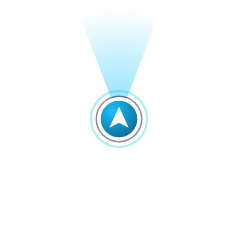
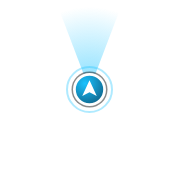
Own dot 1.5x the 2.0 size instead of 2x (Chris: a little too big)
Claude-Session: https://claude.ai/code/session_018oU3wjAxDHu4M3bgiu6vw7

Changed region(s): [[0.3631, 0.3631, 0.6425, 0.6425], [0.4469, 0.4469, 0.5307, 0.5307]]

diff --git a/app/src/components/own-puck.tsx b/app/src/components/own-puck.tsx
@@ -9,7 +9,7 @@ import { useGlide } from './use-glide';
 import { t } from '@/lib/i18n';
 
 /** Your own dot's disc size (points): twice the 2.1 test size, so it reads at a glance on a mount (2026-11-05). */
-export const OWN_PUCK_D = 44;
+export const OWN_PUCK_D = 33;
 
 export type OwnPuckFix = { lat: number; lng: number; course: number | null; speed: number | null; lastCourse?: number | null };
 

diff --git a/docs/feature-parity.md b/docs/feature-parity.md
@@ -145,7 +145,7 @@ web build and the Android emulator.
 | F112 | Rider dot with the arrow built in, follow camera edge rule and Zoom In at Intersections (2.1): every live rider is a glossy disc with a white rim and a white chevron pointing their heading (held for 10 min after they stop, `core/heading` heldHeading); leader biggest in blue, tail gunner next in violet (`RideColors.sweep`), others graphite; your own dot cyan with a beam, arrow from GPS course while moving, the phone's compass when stopped (`lib/compass.ts`), last course on the website. Follow Me: the dot rides through the middle 60% of the open map; near an edge the map zooms out one step once, then pans with the dot a little behind the middle (`core/follow-camera` followMove, leadInset); Center on Me / resume allows the zoom out again. Zoom In at Intersections: junctions found in the road/track/path lines Mapbox has drawn near the rider (`core/intersections`, queryRenderedFeatures; T junctions and crossings, 25° minimum angle), zoom to 17 about 9 s before the junction, back to the old zoom once 35 m past it or after 60 s; You > Zoom In at Intersections (`map.intersectionZoom.v1`, on by default, synced) | 🟡 | 🟡 | 🟡 | 🟡 | 🟡 | ➖ | ✅ follow-me, ride-mode, navigation-mode, leader-sweep-and-tail-gunner, troubleshooting, sync-across-devices | 2.1 (next build) | Added 2026-11-04 (Chris: "Only do one zoom out, then if it is approaching the edge of the screen again, move the screen", "When the dot is approaching in intersection, zoom in ... Once clear ... zoom back out ... a setting ... they can turn off", "always make sure the dot has the arrow on it ... Make the dot look cooler", "leader and tail gunner are different colors"). Mock approved by Chris (Chevron Puck, /mnt/project-files/onmylead/rider-dot/rider-dot-mock.html). Mapbox maps: `components/use-follow-camera.ts` (Ride Mode `group-mapbox-map`, Map Mode `nav-mapbox-map`), own dot `components/own-puck.tsx` + `rider-puck.tsx` (react-native-svg; `puckSvg` string for Leaflet), other riders `rider-pin.tsx`. Fallback Apple/Google maps (`fallback-follow.ts`) and the Leaflet website get the edge rule and the new dots, no intersection zoom (no drawn road lines to query; Exceptions table). Unit tests follow-camera, intersections, heading. Web-rendered at phone and tablet sizes with a fake backend (no Mapbox token in the cloud, so the Leaflet fallback was shot). Needs a real-drive device check on iPhone and Android (junction detection on real trails, compass arrow, zoom timing) with the next build; no backend change. |
 | F113 | Comment likes and replies, friends' post photos on the Home Feed (2.1): Like on every comment and reply (free); Reply under any comment (Pro, like commenting), one level deep, a reply to a reply joins the same conversation with @name; replies hidden or deleted with their comment; Home Feed posts show the photo as a thumbnail | 🟡 | 🟡 | 🟡 | 🟡 | 🟡 | 🟡 | ✅ social, home-screen, notification-settings, free-vs-pro | 2.1 (pending Chris: 2.1 or next) | Added 2026-11-04 (Chris: "Allow me to like and reply to comments. Show activity like photos and posts and stuff on all social feeds from friends"). Migration 20261104220000_comment_likes_replies.sql (additive: `feed_comments.parent_id` / `reply_to_id`, `feed_comment_likes`, `feed_item_thread`, `set_comment_like`, `add_feed_reply`; `push_batch_feed`, `delete_feed_comment`, `admin_rider_social` replaced with the same signatures). Push and inbox types stay feed_like / feed_comment, so no Edge Function deploy; 2.0 builds keep calling `feed_item_comments` and show replies as plain comments. A 2.1 build on a server without the migration hides Like and Reply on comments (`threadNotSwitchedOn`). Database tests `supabase/tests/comment_replies_test.sql` (R1-R9), unit tests in `core/__tests__/social.test.ts`. Admin: Users > rider shows Reply on / likes on each comment; hide and report work as before. Friends' activity reading: Home Feed, Social Activity and profiles already carry friends' posts, rides, badges and trails; the Home Feed now shows post photos. Web-rendered at phone and tablet sizes; device check (reply keyboard, comment like push) due with the next build. Backend/Admin 🟡 until the migration runs from the Mac. 2026-11-05 release test (migration 20261105040000_comment_thread_fixes.sql, DB tested in comment_replies_test.sql R7): replies under a hidden or blocked top comment are left out of feed_item_comments (2.0 builds) and the Feed's counts and preview; hiding clears reply notifications; one comment-like push per 15 minutes per comment; Free riders see a failed like's reason. Backend 🟡 until the migration runs from the Mac. 2.1 release test pass 1: "replying to" never names the writer of a hidden reply or a blocked rider (migration 20261105050000, comment_replies_test R7b). Pass 3: reply pushes go only to riders the reply is shown to (migration 20261105060000, comment_replies_test R7c) |
 | F114 | Leader Trackline (2.1): in Ride Mode a line in the leader dot's blue (`rider-puck` puckInk, so Color Blind Mode follows) follows behind the leader on every rider's map and the leader's own, on any ride (route or Freeride); when the leader comes back within 15 m of their own line at least 120 m further back (a crossing, a loop back to the start, doubling back on an out-and-back), everything before that point is drawn faded, thinner and dashed under the fresh solid line (`core/leader-trackline` lastCrossing: segment test on a grid, so widely spaced spots still catch a crossing; 80 m hysteresis so GPS drift on the way back stays one pass; breaks over 400 m are gaps, never straight lines). Leader / organizer switch in the layers panel, Leader Trackline > On for Everyone / Off for Everyone, for the whole ride (`rides.leader_trackline`, `set_leader_trackline`) | 🟡 | 🟡 | 🟡 | 🟡 | 🟡 | ➖ | ✅ leader-trackline, ride-mode, leader-sweep-and-tail-gunner, map-layers, privacy | 2.1 (next build) | Added 2026-11-05 (Chris: "place a trackline behind the leader in the same high vis color as the leader dot. Give the leader the option to disable the trackline ... If the leader crosses over that trackline ... change the color of the old or something so that people can see the fresh trackline"). Each phone draws the line from the leader trail it already keeps from the leader's live spots (`hooks/use-leader-trail`, on the phone only, never uploaded; Freeride's rider line uses the same trail), so no track data is newly exposed. Migration 20261104210000_leader_trackline.sql (additive: `rides.leader_trackline boolean default true`, `set_leader_trackline` for `can_share_waypoint` riders: leader, or organizer when nobody leads, or co-organizers); phones pick the switch up from the rides realtime update. Drawn on Mapbox (`group-mapbox-map` lines, native and website) and the flat Apple / Google maps (`components/leader-trackline.tsx` Polylines); the website's route sketch (no Mapbox) shows no line (E16). Unit tests `core/__tests__/leader-trackline.test.ts` (straight ride, hairpin, right-angle crossing, out-and-back with GPS drift, detour, second lap, two crossings, 150 m spot spacing, gaps, 5,000 spots), DB tests `supabase/tests/leader_trackline_test.sql` (T1 to T5). Backend 🟡 until the migration runs from the Mac (until then the line shows and the switch says it isn't switched on yet). Device check with the next build: line on Apple and Google maps, layer order on native Mapbox, real crossing on a trail. 2026-11-05 release test (PR #239): stop wander no longer counts as a crossing (TRACKLINE_STILL_M), breaks only past 2 km so battery-saver and backup-poll rides still draw, the trail is kept while the line is off, it stays with the leader it follows, and the website map updates lines in place (unit tested; web Ride Mode re-check owed). |
-| F115 | Map Settings sheet and smooth riding map (2.1): the Layers button (glass circle, blue dot when the map isn't the standard set) opens Map Settings, a sheet from the bottom on phones and docked on the right on tablets in landscape (centered on tablets in portrait), light dim so the map shows each change: Map Style tiles (Satellite, Topo, 3D Terrain as pictures), On the Map switches (Streets and Roads, Off-Road Trails, Hiking Trails, Land Boundaries; `core/map-features` QUICK_LAYERS), Every Map Feature (Fine-Tune), Leader Trackline, Map Buttons on Ride Mode and Map Mode (Follow Me, Zoom In at Intersections on Mapbox, Tilt Meter on the apps, Music Button where available; same synced switches as the You tab), ride map download, Offline Maps. Lag fix: your own dot is Mapbox's native location puck again (the Chevron Puck as images, `assets/images/puck`, made by `app/scripts/puck/make-images.mjs`), course while moving and compass when stopped, instead of a React marker animated ~30 times a second; the intersection lookup asks Mapbox for road and trail lines only (`JUNCTION_QUERY_FILTER`) at most every 2 s; 3D exaggeration redraws in tenths | 🟡 | 🟡 | 🟡 | 🟡 | ➖ | ➖ | ✅ map-layers, 3d-terrain, ride-mode, leader-trackline, follow-me, music-controls, tilt-and-crash-alert | 2.1 (next build) | Added 2026-11-05 (Chris: "the map is glitchy and slow to update when you move", "some kind of layers button on the map screen to configure setting for the map ... toggles to turn features on and off like street/roads, hiking trails, Offroad trails, etc. ... the tilt controls and music button", "Should be elegant, modern and cool"). Unit tests `core/__tests__/map-features.test.ts` (quick switches), all 11 languages. Website (Leaflet fallback, no Mapbox token in the cloud) rendered at 393x852, 820x1180 and 1180x820 (project files onmylead/map-settings/). Device check owed with the next build: smoothness while driving, native dot and arrow (course vs compass), sheet on iPhone, iPad and Android. Web keeps its own dot (mapbox-gl markers move in step there). No backend change. 2026-11-05 follow-up (Chris: dot "twice as big"; "zoom out ... one time", then move the screen, zoom in at intersections, "customizable ... inside the map settings"; "Call it map settings"): own dot OWN_PUCK_D 44 (native images regenerated); button renamed Map Settings with a sliders icon; Following section (Follow Me, Zoom Out at the Edge `map.edgeZoomOut.v1` synced, also You tab and fallback maps, Zoom In at Intersections); follow camera hardened: map lookups time out at 500 ms, a step hung over 2.5 s no longer freezes the camera, the app's own camera moves no longer count as the rider's drag (which paused Follow Me); release test pass 48 fixes (Pro prompt after the sheet closes, NativePuck child, batched setFeatures). |
+| F115 | Map Settings sheet and smooth riding map (2.1): the Layers button (glass circle, blue dot when the map isn't the standard set) opens Map Settings, a sheet from the bottom on phones and docked on the right on tablets in landscape (centered on tablets in portrait), light dim so the map shows each change: Map Style tiles (Satellite, Topo, 3D Terrain as pictures), On the Map switches (Streets and Roads, Off-Road Trails, Hiking Trails, Land Boundaries; `core/map-features` QUICK_LAYERS), Every Map Feature (Fine-Tune), Leader Trackline, Map Buttons on Ride Mode and Map Mode (Follow Me, Zoom In at Intersections on Mapbox, Tilt Meter on the apps, Music Button where available; same synced switches as the You tab), ride map download, Offline Maps. Lag fix: your own dot is Mapbox's native location puck again (the Chevron Puck as images, `assets/images/puck`, made by `app/scripts/puck/make-images.mjs`), course while moving and compass when stopped, instead of a React marker animated ~30 times a second; the intersection lookup asks Mapbox for road and trail lines only (`JUNCTION_QUERY_FILTER`) at most every 2 s; 3D exaggeration redraws in tenths | 🟡 | 🟡 | 🟡 | 🟡 | ➖ | ➖ | ✅ map-layers, 3d-terrain, ride-mode, leader-trackline, follow-me, music-controls, tilt-and-crash-alert | 2.1 (next build) | Added 2026-11-05 (Chris: "the map is glitchy and slow to update when you move", "some kind of layers button on the map screen to configure setting for the map ... toggles to turn features on and off like street/roads, hiking trails, Offroad trails, etc. ... the tilt controls and music button", "Should be elegant, modern and cool"). Unit tests `core/__tests__/map-features.test.ts` (quick switches), all 11 languages. Website (Leaflet fallback, no Mapbox token in the cloud) rendered at 393x852, 820x1180 and 1180x820 (project files onmylead/map-settings/). Device check owed with the next build: smoothness while driving, native dot and arrow (course vs compass), sheet on iPhone, iPad and Android. Web keeps its own dot (mapbox-gl markers move in step there). No backend change. 2026-11-05 follow-up (Chris: dot "twice as big"; "zoom out ... one time", then move the screen, zoom in at intersections, "customizable ... inside the map settings"; "Call it map settings"): own dot OWN_PUCK_D 44, then 33 (Chris: "a little too big"; native images regenerated); button renamed Map Settings with a sliders icon; Following section (Follow Me, Zoom Out at the Edge `map.edgeZoomOut.v1` synced, also You tab and fallback maps, Zoom In at Intersections); follow camera hardened: map lookups time out at 500 ms, a step hung over 2.5 s no longer freezes the camera, the app's own camera moves no longer count as the rider's drag (which paused Follow Me); release test pass 48 fixes (Pro prompt after the sheet closes, NativePuck child, batched setFeatures). |
 
 ## Device Foundations
 

diff --git a/help/articles/map-layers.md b/help/articles/map-layers.md
@@ -90,7 +90,7 @@ These are the same switches as on the **You** tab, so a change shows everywhere.
 
 The round **3D** button from earlier 2.1 test builds is gone: pick **3D Terrain** under **Map Style** instead.
 
-From 2.1 your own dot is also twice as big, so it's easy to spot on a mount.
+From 2.1 your own dot is also half again as big, so it's easy to spot on a mount.
 :::
 
 Your choices are remembered on your phone and used on every map in the app.
